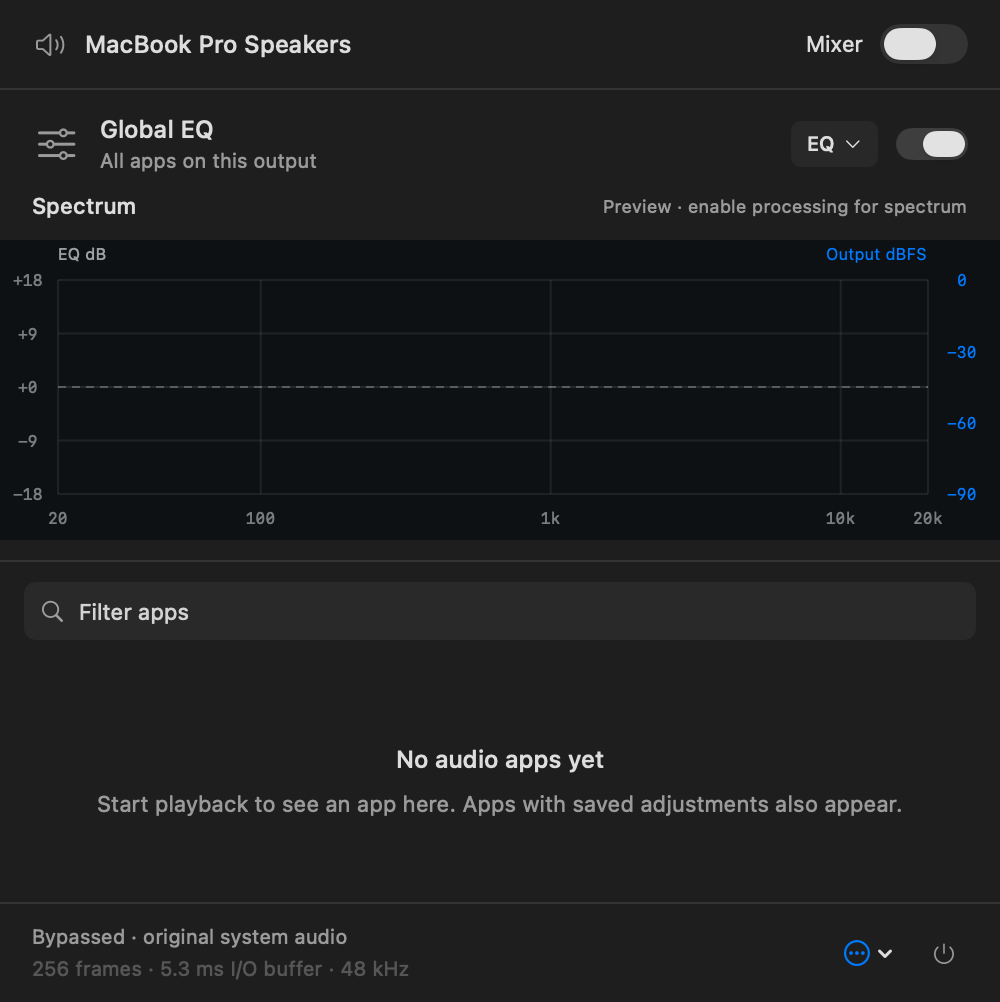
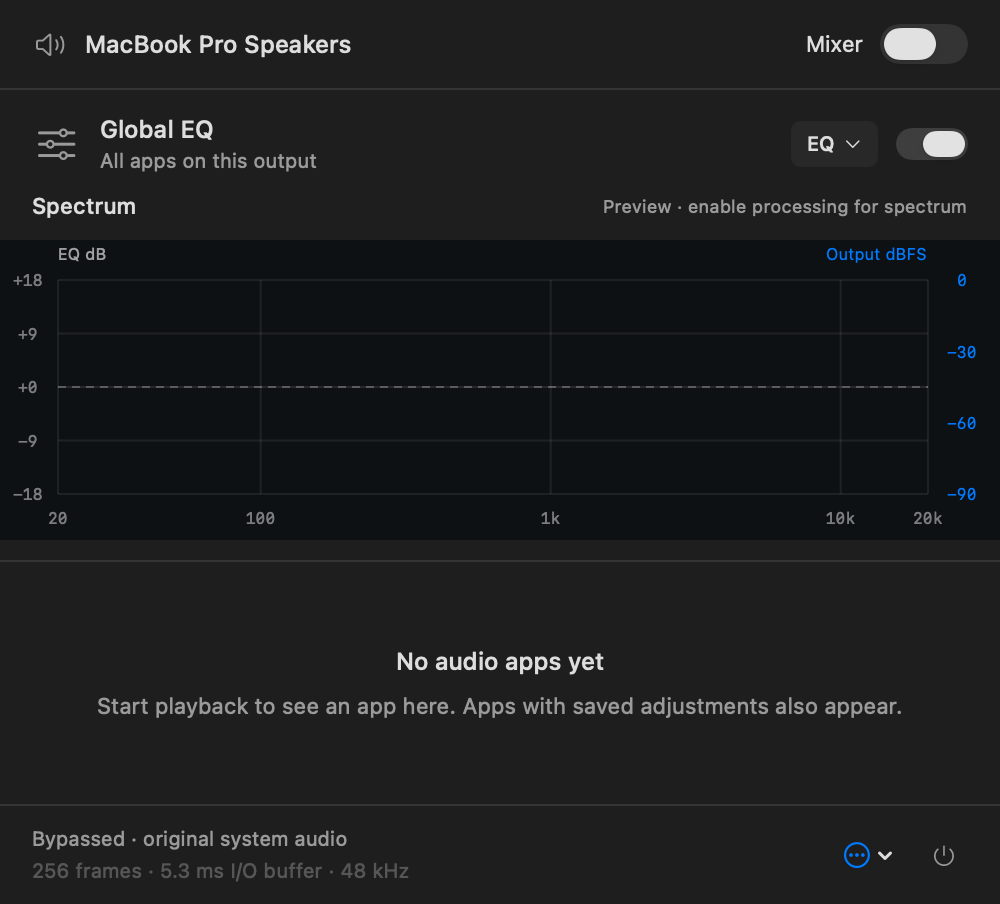
Remove app search to reclaim vertical space

diff --git a/AppMixer/App/Sources/MixerView.swift b/AppMixer/App/Sources/MixerView.swift
@@ -5,12 +5,8 @@ import SwiftUI
 
 struct MixerView: View {
     @ObservedObject var model: MixerModel
-    @State private var search = ""
     @State private var globalBand = 0
     @State private var measured: [String: CGFloat] = [:]
-    private var apps: [AudioApplication] {
-        model.snapshot.apps.filter { search.isEmpty || $0.name.localizedCaseInsensitiveContains(search) }
-    }
     var body: some View {
         VStack(spacing: 0) {
             VStack(spacing: 0) {
@@ -46,19 +42,18 @@ struct MixerView: View {
                 }
                 globalSection
                 Divider()
-                searchField.padding(.horizontal, 12).padding(.vertical, 10)
             }.trackHeight("header")
             ScrollView {
                 VStack(spacing: 8) {
-                    if apps.isEmpty {
+                    if model.snapshot.apps.isEmpty {
                         VStack(spacing: 8) {
-                            Text(search.isEmpty ? "No audio apps yet" : "No matching apps").font(
+                            Text("No audio apps yet").font(
                                 .system(size: 12, weight: .medium))
                             Text("Start playback to see an app here. Apps with saved adjustments also appear.")
                                 .font(.system(size: 11)).foregroundStyle(.secondary).multilineTextAlignment(.center)
                         }.padding(30)
                     }
-                    ForEach(apps) { app in appCard(app) }
+                    ForEach(model.snapshot.apps) { app in appCard(app) }
                 }.padding(.horizontal, 12).padding(.vertical, 12)
                     .fixedSize(horizontal: false, vertical: true).trackHeight("apps")
             }.frame(
@@ -97,21 +92,6 @@ struct MixerView: View {
         }.frame(width: 500).fixedSize(horizontal: false, vertical: true).tint(.accentColor)
             .background(Color(nsColor: .windowBackgroundColor))
             .onPreferenceChange(PanelHeights.self) { if measured != $0 { measured = $0 } }
-    }
-    private var searchField: some View {
-        HStack(spacing: 7) {
-            Image(systemName: "magnifyingglass").foregroundStyle(.secondary)
-            TextField("Filter apps", text: $search).textFieldStyle(.plain)
-            if !search.isEmpty {
-                Button {
-                    search = ""
-                } label: {
-                    Image(systemName: "xmark.circle.fill")
-                }.buttonStyle(.plain)
-            }
-        }.font(.system(size: 11)).padding(8).background(
-            .quaternary.opacity(0.5), in: RoundedRectangle(cornerRadius: 6)
-        )
     }
     private var globalSection: some View {
         let selected = model.selectedEQ == MixerModel.globalEQID

diff --git a/docs/DEVELOPMENT.md b/docs/DEVELOPMENT.md
@@ -29,7 +29,7 @@ Permission is first requested when processing or live spectrum needs an app audi
 - Mono/stereo Float32 output devices with a single output stream are supported. Multichannel/multistream devices are rejected explicitly. This version processes the **current system output**; apps explicitly routed to a different output should be set to the system output first.
 - EQ: five configurable bands, 20 Hz–20 kHz (limited to 45% of sample rate), ±18 dB. Bell, low/high shelf, and 12 dB/octave low/high cut filters. Bell/cut Q spans 0.1–10; shelf slope spans 0.1–1. Each band can be bypassed. Boosts raise their selected frequencies without fixed full-band attenuation. Stereo-linked sample-peak protection reduces gain only when output would exceed full scale, then releases over 50 ms; it adds no lookahead or playback buffering. The live “Limiting” indicator shows reduction. Lower app volume when more headroom is needed. This is sample-peak protection, not an oversampled true-peak limiter. Volume is 0–100%.
 - Drag numbered graph handles to change frequency/gain. Click a band, enter exact frequency/gain/Q values, or use the width slider. White is the filter response (EQ dB, before app volume and peak protection); a dashed line indicates a preview while bypassed. The system accent color fills the live processed-output spectrum (−90…0 dBFS). Double-click a numbered handle to restore that band’s defaults.
-- Global EQ spans the popup width and stays above the pinned search field and scrolling app controls. Its response line is subdued. Collapsed app rows show live output-peak meters (−60…0 dBFS), after volume, mute, and both EQs. Global bypass releases the taps, so meters show unavailable rather than fabricated activity.
+- Global EQ spans the popup width with its expanded controls attached beneath the graph, above the scrolling app list. The popup fits its content up to 1,000 points or the available screen height; search is omitted to leave more room for apps. Its response line is subdued. Collapsed app rows show live output-peak meters (−60…0 dBFS), after volume, mute, and both EQs. Global bypass releases the taps, so meters show unavailable rather than fabricated activity.
 - The minimum band gain is −18 dB, not silence: it leaves about 13% amplitude in the affected range. A logarithmic spectrum still shows that remaining energy; the controls display this amplitude relationship when cutting.
 - The optional 16,384-sample Hann-window spectrum uses Accelerate off the audio thread at ~15 fps. Atomic snapshots never delay playback. At 48 kHz the analysis window covers about 341 ms of recent sound; this affects visual settling, not playback latency. Frequency bins use interpolated boundaries, and there is no extra peak hold to conceal EQ cuts or mute. Both the EQ-gain (left) and output-dBFS (right) scales are labeled; the frequency axis is logarithmic. Stereo powers are combined without phase cancellation. While the popup is open and the main mixer is enabled, playing apps acquire neutral routes as needed for analysis, even with flat EQ. Closing it releases analysis-only routes. The Global EQ graph overlays up to six app spectra with matching labels; its filled envelope is the strongest app in each frequency bin, not a phase-aligned measurement of the final mixed output. Per-app spectra include both app and global processing. Global bypass always releases all routes.
 - Chrome/Electron helper clients resolve to their outer application’s name, icon, and bundle ID. Legacy helper-key settings migrate to that app; existing parent settings take precedence.

diff --git a/CHANGELOG.md b/CHANGELOG.md
@@ -3,7 +3,7 @@
 ## Unreleased
 
 - Increase the popup height limit from 720 to 1,000 points, capped to the available screen height, to give scrolling app controls more room.
-- Keep expanded Global EQ controls attached to the graph, above the pinned app search.
+- Keep expanded Global EQ controls attached to the graph above the app list, and remove search to free vertical space.
 
 ## 0.1.0-rc.5 — 2026-11-02
 
